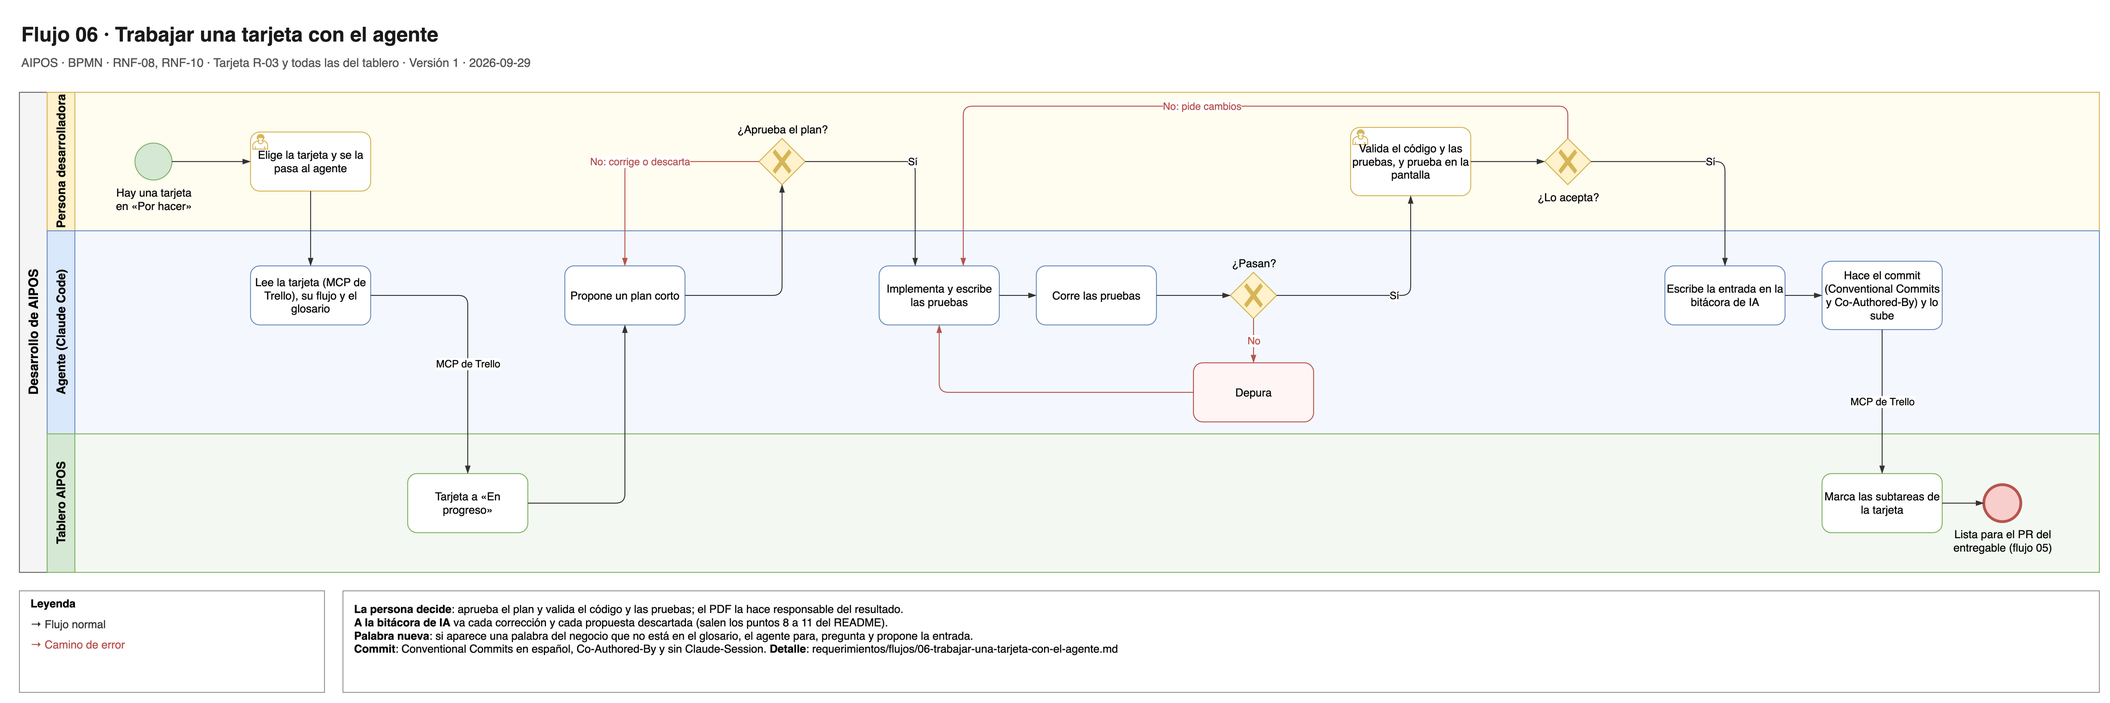
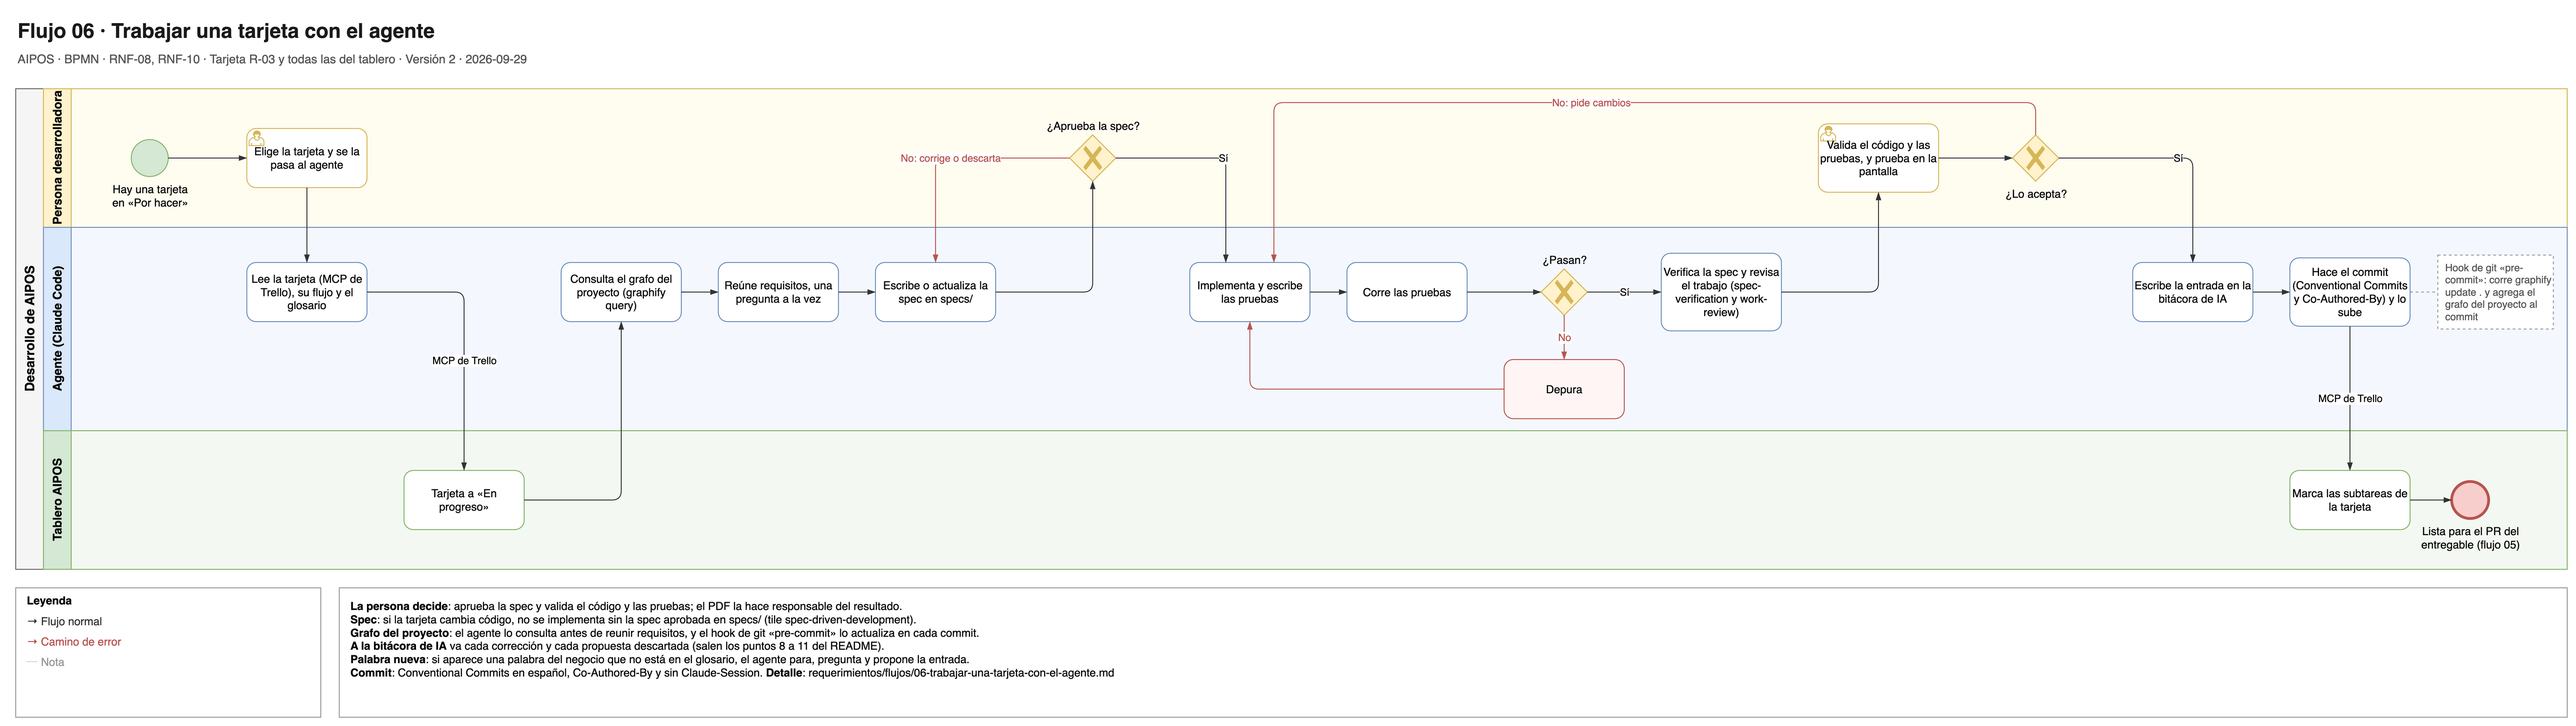
docs(requerimientos): sumar la spec y el grafo del proyecto al flujo 06
El flujo 06 y su diagrama BPMN nombran los pasos que sigue el agente:
consultar el grafo del proyecto, reunir requisitos, escribir la spec,
aprobarla, implementar, spec-verification y work-review, validar,
bitácora y commit con el hook de git. La definición de terminado pide
la spec aprobada si la tarjeta cambia código y el grafo al día en el
commit. El mapa de procesos resume el flujo 06 igual.

diff --git a/requerimientos/flujos/06-trabajar-una-tarjeta-con-el-agente.md b/requerimientos/flujos/06-trabajar-una-tarjeta-con-el-agente.md
@@ -10,31 +10,43 @@ Fuente editable: [`06-trabajar-una-tarjeta-con-el-agente.drawio`](../diagramas/0
 
 - **Carriles:** Persona desarrolladora · Agente (Claude Code) · Tablero AIPOS.
 - **Empieza:** hay una tarjeta en "Por hacer".
-- **Termina bien:** el cambio está en un commit con su entrada en la bitácora, y la tarjeta está lista para el
-  PR de su entregable ([flujo 05](05-entregar-un-entregable.md)).
+- **Termina bien:** el cambio está en un commit con su entrada en la bitácora y el grafo del proyecto al día, y
+  la tarjeta está lista para el PR de su entregable ([flujo 05](05-entregar-un-entregable.md)).
 - **Requerimientos:** [RNF-08](../03-requerimientos-no-funcionales.md#rnf-08-pruebas),
   [RNF-10](../03-requerimientos-no-funcionales.md#rnf-10-uso-del-agente).
 - **Tarjetas:** R-03 (definición de terminado) y todas las del tablero.
+- **Tiles:** `spec-driven-development` pide la spec aprobada antes del código, y `grafo-del-proyecto` pide
+  consultar el grafo del proyecto antes de empezar. La guía del grafo está en
+  [docs/setup/graphify-setup.md](../../docs/setup/graphify-setup.md).
 
 ## Pasos
 
 1. **Persona desarrolladora:** elige la tarjeta y se la pasa al agente.
 2. **Agente:** lee la tarjeta con el MCP de Trello, su flujo en `requerimientos/` y el glosario.
 3. **Tablero AIPOS:** la tarjeta pasa a "En progreso".
-4. **Agente:** propone un plan corto.
-5. **Persona desarrolladora:** aprueba el plan.
-6. **Agente:** implementa y escribe las pruebas.
-7. **Agente:** corre las pruebas.
-8. **Persona desarrolladora:** valida el código y las pruebas, y lo prueba en la pantalla.
-9. **Agente:** escribe la entrada en la bitácora de IA.
-10. **Agente:** hace el commit con Conventional Commits y `Co-Authored-By`, sin `Claude-Session`, y lo sube.
-11. **Tablero AIPOS:** se marcan las subtareas de la tarjeta.
+4. **Agente:** consulta el grafo del proyecto con `graphify query`, para ubicar el código, las specs y los
+   documentos que toca la tarjeta.
+5. **Agente:** reúne requisitos con la persona desarrolladora, una pregunta a la vez (skill `requirement-gathering`).
+6. **Agente:** escribe o actualiza la spec en `specs/` (skill `spec-writer`).
+7. **Persona desarrolladora:** aprueba la spec.
+8. **Agente:** implementa y escribe las pruebas.
+9. **Agente:** corre las pruebas.
+10. **Agente:** verifica la spec y revisa el trabajo contra ella (skills `spec-verification` y `work-review`).
+11. **Persona desarrolladora:** valida el código y las pruebas, y lo prueba en la pantalla.
+12. **Agente:** escribe la entrada en la bitácora de IA.
+13. **Agente:** hace el commit con Conventional Commits y `Co-Authored-By`, sin `Claude-Session`, y lo sube. El
+    hook de git `pre-commit` actualiza el grafo del proyecto y lo agrega al commit.
+14. **Tablero AIPOS:** se marcan las subtareas de la tarjeta.
 
 ## Otros caminos
 
 | En el paso | Qué pasa | Resultado |
 |---|---|---|
-| 5 | La persona desarrolladora corrige o descarta el plan. | Queda anotado para la bitácora. El agente ajusta el plan y vuelve al paso 4. |
-| 6 | Aparece una palabra del negocio que no está en el glosario. | El agente para, le pregunta a la persona desarrolladora y propone la entrada. Sigue cuando está en el glosario. |
-| 7 | Una prueba falla. | El agente depura y vuelve al paso 6. |
-| 8 | La persona desarrolladora pide cambios. | Queda anotado para la bitácora y vuelve al paso 6. |
+| 4 | El comando `graphify` no está instalado. | El agente lee `graphify-out/GRAPH_REPORT.md` y le pregunta a la persona desarrolladora si instala Graphify. Sigue en el paso 5. |
+| 5 a 7 | La tarjeta no cambia código, por ejemplo una de documentación. | No lleva spec: el agente propone un plan corto y la persona desarrolladora lo aprueba. Sigue en el paso 8. |
+| 7 | La persona desarrolladora corrige o descarta la spec. | Queda anotado para la bitácora. El agente ajusta la spec y vuelve al paso 6. |
+| 5 a 8 | Aparece una palabra del negocio que no está en el glosario. | El agente para, le pregunta a la persona desarrolladora y propone la entrada. Sigue cuando está en el glosario. |
+| 9 | Una prueba falla. | El agente depura y vuelve al paso 8. |
+| 10 | El código no cumple la spec, o la spec quedó vieja. | El agente corrige el código o actualiza la spec y vuelve al paso 9. Si cambió la spec, la persona desarrolladora la vuelve a aprobar. |
+| 11 | La persona desarrolladora pide cambios. | Queda anotado para la bitácora y vuelve al paso 8. |
+| 13 | El hook de git no está activo. | El agente corre `git config core.hooksPath .githooks`. Si no puede, corre `graphify update .` y agrega el grafo del proyecto al commit a mano. |

diff --git a/requerimientos/04-entregables.md b/requerimientos/04-entregables.md
@@ -111,12 +111,15 @@ Total estimado: 25 horas, sin contar R-00.
 Una tarjeta pasa a "Hecho" solo si:
 1. Cumple sus criterios de aceptación.
 2. Tiene pruebas y pasan.
-3. La persona desarrolladora validó el cambio y las pruebas.
-4. Usa las palabras del glosario. Si apareció una palabra nueva, ya está en el glosario.
-5. Sus commits siguen Conventional Commits, llevan `Co-Authored-By` si participó el agente y no llevan
+3. Si cambia código, tiene su spec aprobada en `specs/` y pasó `spec-verification` y `work-review`.
+4. La persona desarrolladora validó el cambio y las pruebas.
+5. Usa las palabras del glosario. Si apareció una palabra nueva, ya está en el glosario.
+6. Sus commits siguen Conventional Commits, llevan `Co-Authored-By` si participó el agente y no llevan
    `Claude-Session`.
-6. Tiene su entrada en la bitácora de IA, en el mismo commit que el cambio.
-7. Su PR pasó la revisión del agente revisor, con cada hallazgo corregido o explicado.
-8. Está integrada: en `ProductionEnv` con merge commit, o en `main` si es de requerimientos o de tiles.
-9. Si cambió cómo se instala o se usa AIPOS, el README está al día.
-10. Sus subtareas están marcadas en el tablero AIPOS.
+7. Tiene su entrada en la bitácora de IA, en el mismo commit que el cambio.
+8. Su commit trae el grafo del proyecto al día: `graphify-out/graph.json` y `graphify-out/GRAPH_REPORT.md`, que
+   agrega el hook de git `pre-commit`.
+9. Su PR pasó la revisión del agente revisor, con cada hallazgo corregido o explicado.
+10. Está integrada: en `ProductionEnv` con merge commit, o en `main` si es de requerimientos o de tiles.
+11. Si cambió cómo se instala o se usa AIPOS, el README está al día.
+12. Sus subtareas están marcadas en el tablero AIPOS.

diff --git a/requerimientos/flujos/00-mapa-de-procesos.md b/requerimientos/flujos/00-mapa-de-procesos.md
@@ -22,7 +22,7 @@ Fuente editable: [`00-mapa-de-procesos.drawio`](../diagramas/00-mapa-de-procesos
 | Flujo | Qué pasa | Sigue con |
 |---|---|---|
 | [05 Entregar un entregable](05-entregar-un-entregable.md) | Rama, tarjetas, PR, revisión, merge commit y etiqueta en `ProductionEnv`. | El siguiente entregable o la entrega final. |
-| [06 Trabajar una tarjeta con el agente](06-trabajar-una-tarjeta-con-el-agente.md) | Plan, implementación, pruebas, revisión de la persona desarrolladora, bitácora y commit. Se repite por cada tarjeta dentro del flujo 05. | 05 |
+| [06 Trabajar una tarjeta con el agente](06-trabajar-una-tarjeta-con-el-agente.md) | Grafo del proyecto, requisitos y spec, implementación, pruebas, revisión contra la spec, revisión de la persona desarrolladora, bitácora y commit con el grafo al día. Se repite por cada tarjeta dentro del flujo 05. | 05 |
 
 - **Requerimientos:** todos. La matriz está en el [README](../README.md#matriz-del-pdf).
 - **Tarjetas:** R-01.
